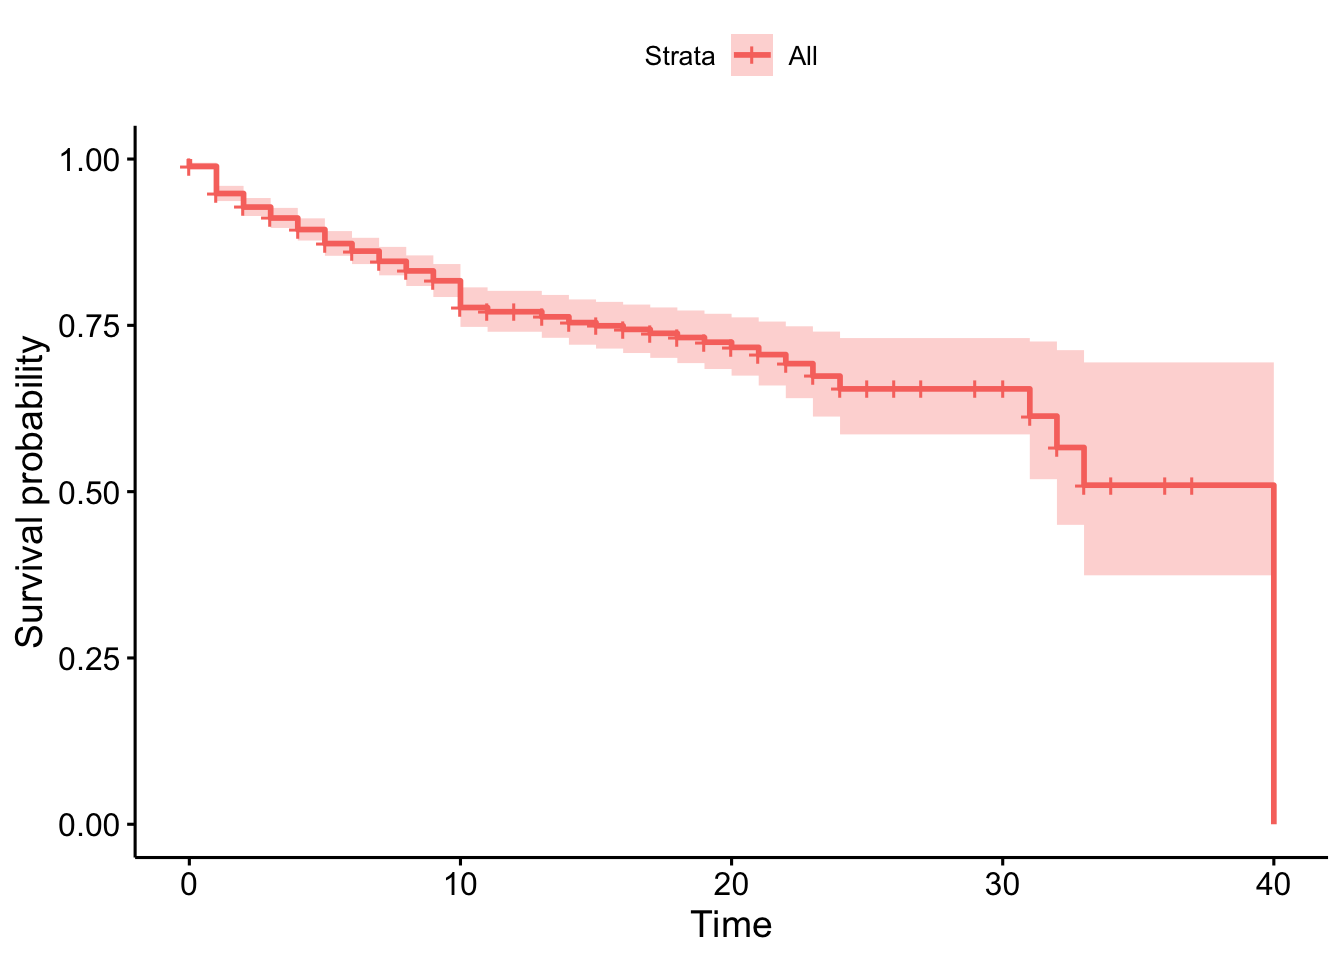
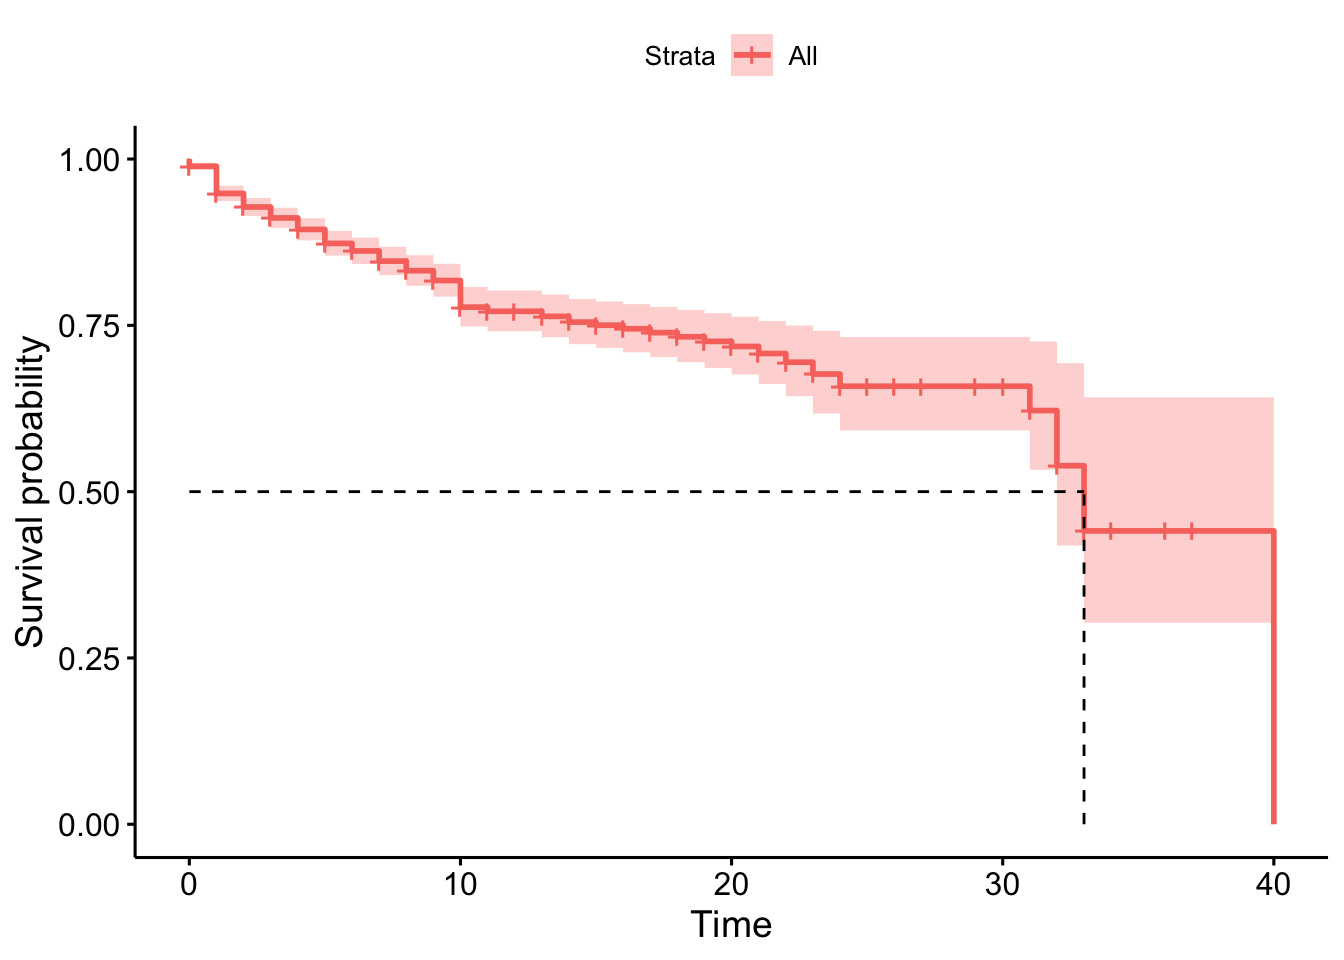
small_mistake

diff --git a/content/blog/2021-05-21-kaplan-and-meier/index.en.html b/content/blog/2021-05-21-kaplan-and-meier/index.en.html
@@ -12,7 +12,6 @@ editor_options:
   chunk_output_type: console
 ---
 
-<script src="{{< blogdown/postref >}}index.en_files/header-attrs/header-attrs.js"></script>
 
 
 <p><em>Attrition Analysis</em> is one of the most common analyses that companies carry out. The loss of talented employees and finding and training new ones could take a long time, lose a competitive advantage, and generate elevated costs.</p>
@@ -24,13 +23,13 @@ editor_options:
 </ul>
 <p>Today, we will see the most popular non-parametric method for the attrition analysis: The Kaplan and Meier Estimation. One of the most interesting characteristics of the non-parametric methods is that the sample doesn’t have to satisfy any distribution. However, before starting with an example, we need to introduce some basic concepts.</p>
 <p>The Kaplan and Meier Estimation defines a survival function (<span class="math inline">\(S(t)\)</span>) that depends on time and tells us the probability that one employee will keep working in the company at a specific time. At the beginning of the process, the probability of surviving is one (<span class="math inline">\(S(t=0)=1\)</span>). When the time tends to infinity, the probability of surviving is zero (<span class="math inline">\(S(t \rightarrow \infty)=0\)</span>). Finally, we need to take into account the survival function cannot increase with time.</p>
-<p>Now, we can start with an example. Firstly, we need to load the data set <code>employees_attrition</code> to find in the package <code>HRdatsets</code>. This data set contains a sample with 1,470 employees.</p>
+<p>Now, we can start with an example. Firstly, we need to load the data set <code>ibm_employees_attrition_performance</code> to find in the package <code>HRdatsets</code>. This data set contains a sample with 1,472 employees.</p>
 <pre class="r"><code>library(tidyverse)
 
 devtools::install_github(&quot;vicencfernandez/HRdatasets&quot;)
 library(HRdatasets)
-employees_attrition </code></pre>
-<pre><code>## # A tibble: 1,470 x 35
+ibm_employees_attrition_performance </code></pre>
+<pre><code>## # A tibble: 1,472 x 35
 ##      Age Attrition BusinessTravel   DailyRate Department        DistanceFromHome
 ##    &lt;int&gt; &lt;chr&gt;     &lt;chr&gt;                &lt;int&gt; &lt;chr&gt;                        &lt;int&gt;
 ##  1    41 Yes       Travel_Rarely         1102 Sales                            1
@@ -43,7 +42,7 @@ employees_attrition </code></pre>
 ##  8    30 No        Travel_Rarely         1358 Research &amp; Devel…               24
 ##  9    38 No        Travel_Frequent…       216 Research &amp; Devel…               23
 ## 10    36 No        Travel_Rarely         1299 Research &amp; Devel…               27
-## # … with 1,460 more rows, and 29 more variables: Education &lt;int&gt;,
+## # … with 1,462 more rows, and 29 more variables: Education &lt;int&gt;,
 ## #   EducationField &lt;chr&gt;, EmployeeCount &lt;int&gt;, EmployeeNumber &lt;int&gt;,
 ## #   EnvironmentSatisfaction &lt;int&gt;, Gender &lt;chr&gt;, HourlyRate &lt;int&gt;,
 ## #   JobInvolvement &lt;int&gt;, JobLevel &lt;int&gt;, JobRole &lt;chr&gt;, JobSatisfaction &lt;int&gt;,
@@ -60,7 +59,7 @@ employees_attrition </code></pre>
 library(survminer)</code></pre>
 <p>Now, we need to build a Survival object with the information of employees. We only need two variables: the time (years) that each employee has been in the company in the period that we are analyzing (in our case, the variable years), and if finally, the employee left the organization during the period that we are studying (in our case, the variable attrition).</p>
 <pre class="r"><code># Select the two core variables, and transform the variable attrition
-employee.clean &lt;- employees_attrition %&gt;% 
+employee.clean &lt;- ibm_employees_attrition_performance %&gt;% 
   select (Attrition, YearsAtCompany) %&gt;% 
   rename (attrition = Attrition, years = YearsAtCompany) %&gt;%
   mutate (attrition = if_else(attrition==&quot;Yes&quot;, 1, 0)) 
@@ -82,41 +81,42 @@ print(employee.km)</code></pre>
 <pre><code>## Call: survfit(formula = employee.surv ~ 1, data = employee.clean, type = &quot;kaplan-meier&quot;)
 ## 
 ##       n  events  median 0.95LCL 0.95UCL 
-##    1470     237      40      32      NA</code></pre>
+##    1472     239      33      32      NA</code></pre>
 <pre class="r"><code># More results
 summary(employee.km)</code></pre>
 <pre><code>## Call: survfit(formula = employee.surv ~ 1, data = employee.clean, type = &quot;kaplan-meier&quot;)
 ## 
 ##  time n.risk n.event survival std.err lower 95% CI upper 95% CI
-##     0   1470      16    0.989 0.00271        0.984        0.994
-##     1   1426      59    0.948 0.00583        0.937        0.960
-##     2   1255      27    0.928 0.00690        0.914        0.941
-##     3   1128      20    0.911 0.00769        0.896        0.927
-##     4   1000      19    0.894 0.00851        0.877        0.911
-##     5    890      21    0.873 0.00947        0.855        0.892
-##     6    694       9    0.862 0.01007        0.842        0.882
-##     7    618      11    0.846 0.01091        0.825        0.868
-##     8    528       9    0.832 0.01173        0.809        0.855
-##     9    448       8    0.817 0.01264        0.793        0.842
-##    10    366      18    0.777 0.01516        0.748        0.807
-##    11    246       2    0.770 0.01568        0.740        0.802
-##    13    200       2    0.763 0.01644        0.731        0.796
-##    14    176       2    0.754 0.01736        0.721        0.789
-##    15    158       1    0.749 0.01789        0.715        0.785
-##    16    138       1    0.744 0.01857        0.708        0.781
-##    17    126       1    0.738 0.01934        0.701        0.777
-##    18    117       1    0.732 0.02018        0.693        0.772
-##    19    104       1    0.725 0.02117        0.684        0.767
-##    20     93       1    0.717 0.02233        0.674        0.762
-##    21     66       1    0.706 0.02449        0.660        0.756
-##    22     52       1    0.692 0.02753        0.641        0.749
-##    23     37       1    0.674 0.03253        0.613        0.741
-##    24     35       1    0.654 0.03686        0.586        0.731
-##    31     16       1    0.614 0.05256        0.519        0.726
-##    32     13       1    0.566 0.06641        0.450        0.713
-##    33     10       1    0.510 0.08037        0.374        0.694
+##     0   1472      16    0.989 0.00270        0.984        0.994
+##     1   1428      59    0.948 0.00582        0.937        0.960
+##     2   1257      27    0.928 0.00689        0.914        0.941
+##     3   1130      20    0.911 0.00768        0.897        0.927
+##     4   1002      19    0.894 0.00850        0.878        0.911
+##     5    892      21    0.873 0.00946        0.855        0.892
+##     6    696       9    0.862 0.01006        0.842        0.882
+##     7    620      11    0.847 0.01089        0.825        0.868
+##     8    530       9    0.832 0.01171        0.810        0.855
+##     9    450       8    0.817 0.01261        0.793        0.842
+##    10    368      18    0.777 0.01511        0.748        0.808
+##    11    248       2    0.771 0.01563        0.741        0.802
+##    13    202       2    0.764 0.01638        0.732        0.796
+##    14    178       2    0.755 0.01728        0.722        0.790
+##    15    160       1    0.750 0.01781        0.716        0.786
+##    16    140       1    0.745 0.01847        0.710        0.782
+##    17    128       1    0.739 0.01922        0.702        0.778
+##    18    119       1    0.733 0.02003        0.695        0.773
+##    19    106       1    0.726 0.02100        0.686        0.768
+##    20     95       1    0.718 0.02213        0.676        0.763
+##    21     68       1    0.708 0.02419        0.662        0.757
+##    22     54       1    0.695 0.02706        0.644        0.750
+##    23     39       1    0.677 0.03169        0.617        0.742
+##    24     37       1    0.658 0.03573        0.592        0.732
+##    31     18       1    0.622 0.04902        0.533        0.726
+##    32     15       2    0.539 0.06917        0.419        0.693
+##    33     11       2    0.441 0.08445        0.303        0.642
 ##    40      1       1    0.000     NaN           NA           NA</code></pre>
 <p>With these results, we can analyze the survival probability for each time. For instance, there is a 77.0% (<em>survival</em>) of probabilities of surviving (to keep working in the organization) during 11 months (<em>t</em>). There are 2 (n.event) employees who left the organization in the 11th month in our data set, and there were 246 (<em>n.risk</em>) with probabilities to leave the organization in the 11th month.</p>
 <p>It’s also widespread to show the survival probabilities using Survival Curves. Let’s see the example.</p>
-<pre class="r"><code>ggsurvplot(employee.km)</code></pre>
+<pre class="r"><code>ggsurvplot(employee.km, surv.median.line = &quot;hv&quot;)</code></pre>
 <p><img src="{{< blogdown/postref >}}index.en_files/figure-html/unnamed-chunk-5-1.png" width="672" /></p>
+<p>As we can see in the previous plot, there is a 50% of probabilities to survive (keep working in the same company) during 32 years.</p>
